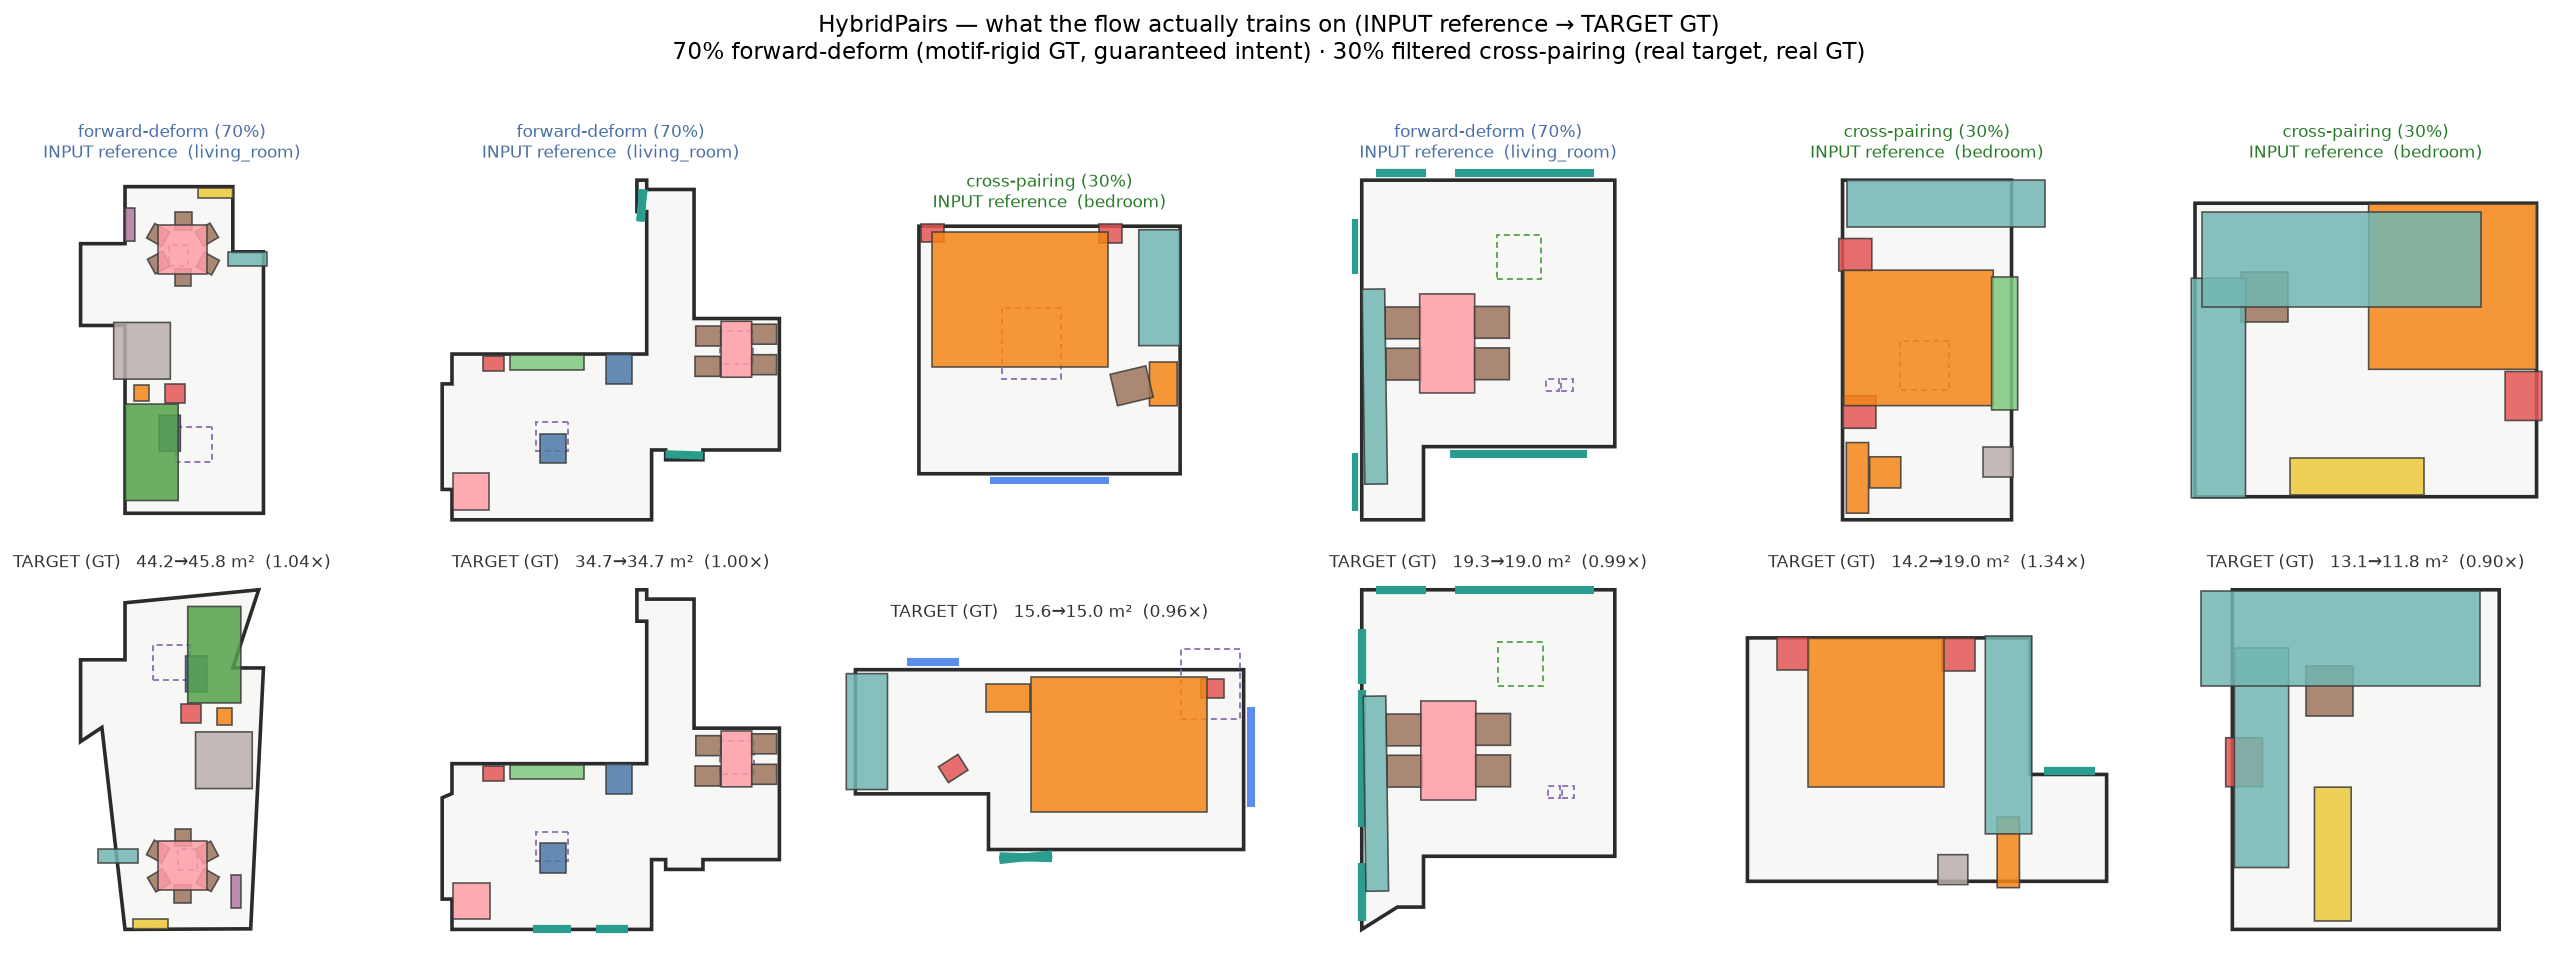
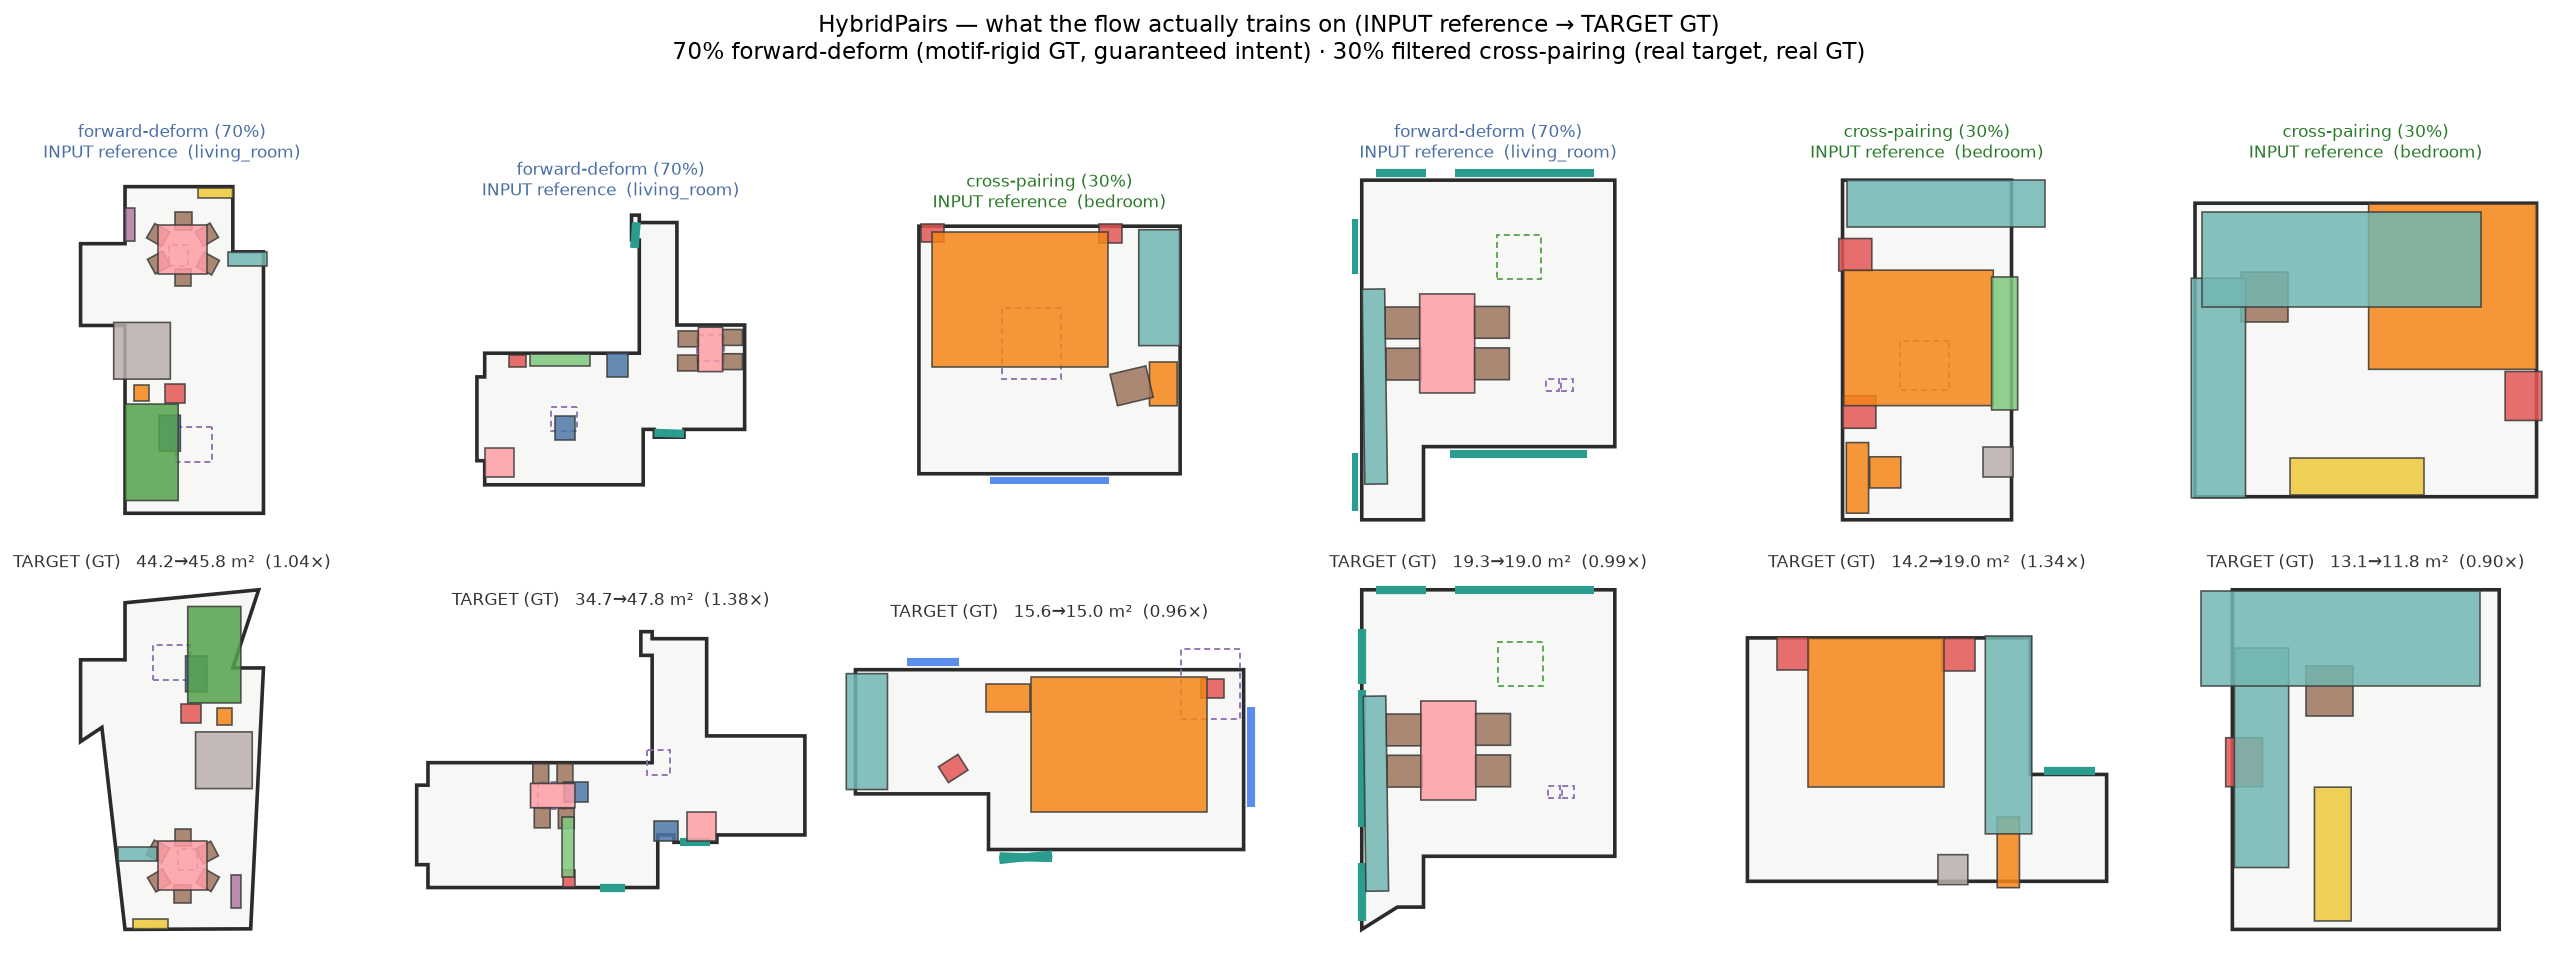
site: all-cases coverage (5 deform levels + cross-pairing) + footprint-overhang fix
motif_rigid_warp now shifts whole motifs rigidly inside the room instead of
per-object center clipping; forward footprint-overhang 25.1%->1.1%.

diff --git a/index.html b/index.html
@@ -263,6 +263,7 @@ $$E_\text{wall-pull} = \lambda_w(\rho)\,\sum_i a_i\,\big(d_i^\text{back}\big)^2$
 <ul>
   <li><strong>面積比爆量</strong> &mdash; 原始 forward-deform 的切角 / L 切割會產生 target / source 高達 <span class="mono">4.0×</span> 的房間(物件擠一角填不滿),遠超部署範圍。<span class="mono">make_forward_pair</span> 加上面積比重採樣 <span class="mono">[0.5, 2.0]</span> 後,forward 路徑最大降到 <span class="mono">1.68×</span>,整條管線 <span class="mono">100%</span> 落在 <span class="mono">[0.5, 2.0]</span>(中位數 0.99)。</li>
   <li><strong>退化崩塌</strong> &mdash; 偶發(0.3%)一個 motif 被 <span class="mono">motif_rigid_warp</span> 整組投影到邊界同一點,造成 GT 全部出界(OOB 100%)。加上 GT 出界比例守門(<span class="mono">forward &le; 15%</span> 重採樣、<span class="mono">cross &gt; 30%</span> 直接 fallback)後,OOB 最大值 <span class="mono">100% → 14.3%</span>、平均 <span class="mono">0.26%</span>。</li>
+  <li><strong>物件戳出牆外</strong> &mdash; 原本只檢查<em>中心點</em>是否出界,但斜牆 / 凹型 / 切角房型下,物件的 <em>footprint(四角)</em>會整片戳出牆(有 25.1% 的物件 footprint 超過 15% 在牆外)。改法:<span class="mono">motif_rigid_warp</span> 不再逐物件裁切中心,而是把整個 motif 以<strong>共享平移(剛體)</strong>往內推到 footprint 進得了房間 &mdash; 保持 motif 內部幾何不變;再加 footprint 溢出守門。forward 路徑「footprint 超過 15% 出牆」的物件比例 <span class="mono">25.1% → 1.1%</span>。</li>
 </ul>
 
 <table>
@@ -271,12 +272,28 @@ $$E_\text{wall-pull} = \lambda_w(\rho)\,\sum_i a_i\,\big(d_i^\text{back}\big)^2$
     <tr><td>面積比 &gt; 2.0× 比例</td><td>10.3%</td><td><strong>0.0%</strong></td></tr>
     <tr><td>面積比最大值</td><td>4.00×</td><td><strong>1.96×</strong></td></tr>
     <tr><td>GT 出界比例最大</td><td>100%</td><td><strong>14.3%</strong></td></tr>
+    <tr><td>物件 footprint &gt;15% 出牆(forward)</td><td>25.1%</td><td><strong>1.1%</strong></td></tr>
     <tr><td>motif 拉伸(forward GT)</td><td colspan="2"><strong>3.9 cm</strong>(剛體搬,保持完整)</td></tr>
     <tr><td>motif 拉伸(cross GT)</td><td colspan="2">49.3 cm(兩間真房的人因差異)</td></tr>
   </tbody>
 </table>
 
 <p class="note">實作:<span class="mono">HybridPairs</span> 於 <span class="mono">reroom/generative/xscene.py</span>;資料品質守門在 <span class="mono">make_forward_pair</span>(面積比重採樣 + <span class="mono">_gt_oob_frac</span> 守門)與 <span class="mono">make_cross_pair_filtered</span>(出界 fallback);驗證 <span class="mono">scripts/diag_xscene.py</span> + pipeline 抽樣渲染。</p>
+
+<h3>所有可能情況一覽</h3>
+<p>兩個策略會產出的完整情況(語料只含 bedroom 與 living_room 兩種房型):</p>
+
+<h4>策略 2 — 前向變形的 5 種 deform level</h4>
+<figure>
+  <img src="assets/strat2_cases.png" alt="Strategy 2 forward-deform — all 5 levels × both room types">
+  <figcaption>5 種變形 level × 兩房型,上=INPUT reference、下=TARGET GT。<span class="mono">L1 uniform_scale</span>(等比縮放,矩形)、<span class="mono">L2 aspect_ratio</span>(長寬比)、<span class="mono">L3 slanted_wall</span>(斜牆 / 梯形)、<span class="mono">L4 corner_cut</span>(切角 / L 型)、<span class="mono">L5 concave</span>(凹型)。面積比涵蓋 0.66×–1.68×(放大與縮小皆有);每格 motif(dining set、bed+床頭櫃)在 input↔target 之間都以剛體保持完整,且以共享平移推進房間(所示各格單一物件最多僅 6% footprint 觸牆)。當某次 cross 配對被過濾器剔除時,pipeline 就 fallback 到這條路徑。</figcaption>
+</figure>
+
+<h4>策略 1 — 跨場景配對的真實情況</h4>
+<figure>
+  <img src="assets/strat1_cases.png" alt="Strategy 1 cross-pairing — real reference to real target, both room types">
+  <figcaption>真實 reference → 真實 target GT,涵蓋兩房型、多種真實邊界形狀(L 型 / 切角 / 斜角 / 矩形)、面積比 0.51×–1.59×。<strong>紅色虛線</strong> = reference 中沒有 target 對應的物件(未配對,mask 出 flow loss;因 Jaccard 0.62–0.83,每組有 2–11 個)。Jaccard 越低、未配對越多、被監督的物件越少 &mdash; 這是 cross-pairing 天生的取捨,也是為何 76% 配對率是關鍵指標。</figcaption>
+</figure>
 
 <footer>
 Repo:<a href="https://github.com/gino6178/project4">github.com/gino6178/project4</a>
